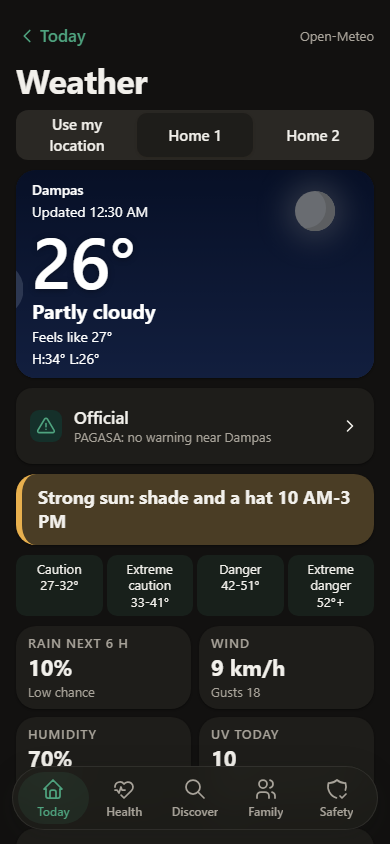
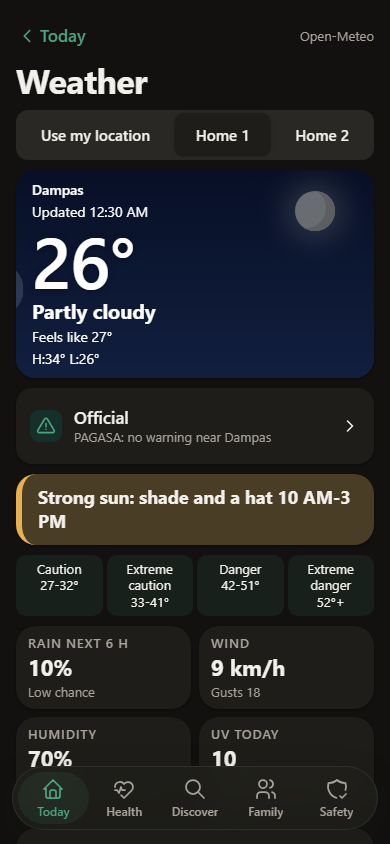
fix(weather): Place options stay on one line; no map prompt flash while pending; Official row says last known place (review 1.W8)

Changed region(s): [[0.0923, 0.1232, 0.4, 0.1848], [0.4308, 0.154, 0.6462, 0.1848], [0.7385, 0.154, 0.8923, 0.1848]]

diff --git a/src/features/weather/WeatherScreen.test.tsx b/src/features/weather/WeatherScreen.test.tsx
@@ -1,5 +1,5 @@
 import 'fake-indexeddb/auto'
-import { cleanup, fireEvent, render, screen, within } from '@testing-library/react'
+import { cleanup, fireEvent, render, screen, waitFor, within } from '@testing-library/react'
 import { afterEach, beforeEach, describe, expect, it, vi } from 'vitest'
 import { db } from '../../db'
 import { ALERTS_KEY, type Alert } from '../safety/alerts'
@@ -34,6 +34,7 @@ describe('WeatherScreen', () => {
     expect(heroes).toHaveLength(1)
     expect(heroes[0]).toBe(screen.getByRole('region', { name: 'Now' }))
     expect(heroes[0]!.getAttribute('data-contrast-bg')).toBe('#0B1636')
+    await screen.findByRole('region', { name: 'Live weather map' }) // appears once the position is known
     const regions = screen.getAllByRole('region').map((r) => r.getAttribute('aria-label') ?? document.getElementById(r.getAttribute('aria-labelledby')!)?.textContent)
     expect(regions.slice(0, 8)).toEqual(['Now', 'What to do', 'Details', 'Rain and storm map', 'Next 48 hours', '10 days', 'Season and sun', 'Live weather map'])
     expect(document.querySelector('.wx-temp')?.textContent).toBe('33°')
@@ -83,9 +84,10 @@ describe('WeatherScreen', () => {
     render(<WeatherScreen />)
     const k = (await screen.findByTestId('place-last')).closest('.wx-k')!
     expect(k.textContent).toBe('My location · last known')
-    expect(within(screen.getByRole('region', { name: 'Now' })).getByText(/^Updated \d{1,2}:\d\d [AP]M$/)).toBeTruthy()
-    expect(within(screen.getByRole('region', { name: 'Now' })).getByText(/^Feels like \d+°$/)).toBeTruthy()
-    expect(within(screen.getByRole('region', { name: 'Now' })).getByText(/^H:\d+°\s+L:\d+°$/)).toBeTruthy()
+    await waitFor(() => { // the forecast for the last fix replaces the first one, so read the settled hero
+      const now = within(screen.getByRole('region', { name: 'Now' }))
+      now.getByText(/^Updated \d{1,2}:\d\d [AP]M$/); now.getByText(/^Feels like \d+°$/); now.getByText(/^H:\d+°\s+L:\d+°$/)
+    }, { timeout: 5000 })
     cleanup()
     await db.kv.clear()
     render(<WeatherScreen />)
@@ -114,7 +116,7 @@ describe('WeatherScreen', () => {
   it('place toggle: Home 1 and Home 2 fetch their own forecast; without GPS the first button offers to use the location (N-2)', async () => {
     render(<WeatherScreen />)
     await screen.findByText('Partly cloudy')
-    fireEvent.click(screen.getAllByRole('button', { name: 'Use my location' })[0]!)
+    fireEvent.click(screen.getByRole('button', { name: 'Use my location' }))
     expect(await screen.findByText(/Location is off for Bantay/)).toBeTruthy() // no GPS in the test: the tap says why instead of doing nothing (m-1)
     expect(screen.getByRole('button', { name: 'Home 1' }).getAttribute('aria-pressed')).toBe('true')
     fireEvent.click(screen.getByRole('button', { name: 'Home 2' }))
@@ -162,7 +164,7 @@ describe('WeatherScreen', () => {
     render(<WeatherScreen />)
     await screen.findByText('Partly cloudy')
     expect(screen.queryByRole('button', { name: 'Open live map' })).toBeNull()
-    const map = within(screen.getByRole('region', { name: 'Live weather map' }))
+    const map = within(await screen.findByRole('region', { name: 'Live weather map' })) // hidden while the position is pending, so it never flashes
     expect(map.getByRole('button', { name: 'Find me' })).toBeTruthy()
     expect(map.getByText('Your position is not known yet, so the map has nothing to centre on.')).toBeTruthy()
     expect(document.querySelector('iframe')).toBeNull()

diff --git a/src/features/weather/WeatherScreen.tsx b/src/features/weather/WeatherScreen.tsx
@@ -94,7 +94,7 @@ export default function WeatherScreen() {
     <div className="wx">
       <LargeTitle back={{ href: '#today', label: 'Today' }} title="Weather" actions={<span className="wx-src-pill">Open-Meteo</span>} />
       <Segmented<Sel> label="Place" value={sel} onChange={(id) => (id === 'me' ? void askLoc() : setPick(id))} options={[
-        { id: 'me', label: fix && l.source === 'gps' ? 'My location' : fix ? 'My location (last known)' : finding ? 'Finding you…' : 'Use my location' },
+        { id: 'me', label: fix ? 'My location' : finding ? 'Finding you…' : 'Use my location' },
         { id: 'h1', label: 'Home 1' },
         { id: 'h2', label: 'Home 2' }
       ]} />
@@ -102,7 +102,7 @@ export default function WeatherScreen() {
       {fc && point ? <Body fc={fc} name={name} where={sel === 'me' ? (l.source === 'last' ? 'last' : 'gps') : null} point={point} alerts={alerts} offline={offline || !online} /> : (
         <p className="wx-note" role="status">{loading ? 'Loading the forecast…' : 'Could not load the forecast. Check your connection and open this screen again.'}</p>
       )}
-      {fix ? <LiveMapToggle loc={fix} /> : (
+      {fix ? <LiveMapToggle loc={fix} /> : l.source === 'pending' ? null : (
         <section aria-label="Live weather map" className="card wx-map wx-map-empty">
           <p>Your position is not known yet, so the map has nothing to centre on.</p>
           <button type="button" className="btn" disabled={finding} onClick={askLoc}>{finding ? 'Finding you…' : 'Find me'}</button>
@@ -158,7 +158,7 @@ function Body({ fc, name, where, point, alerts, offline }: { fc: Forecast; name:
       </section>
 
       <GroupedList icons>
-        <Row icon="warn" tint={warn ? 'red' : 'green'} title="Official" sub={warn ? warn.title : `PAGASA: no warning near ${name === 'My location' ? 'you' : name}`} href="#safety/warnings" />
+        <Row icon="warn" tint={warn ? 'red' : 'green'} title="Official" sub={warn ? warn.title : `PAGASA: no warning near ${where === 'last' ? 'your last known place' : where === 'gps' ? 'you' : name}`} href="#safety/warnings" />
       </GroupedList>
 
       <section aria-label="What to do" className={`wx-action${main ? ' on' : ''}`} data-id={main?.id ?? 'none'}>

diff --git a/e2e/v13-weather.spec.ts b/e2e/v13-weather.spec.ts
@@ -29,17 +29,35 @@ test('hero first, one [data-hero], Now above Official above What to do', async (
   expect(official).toBeLessThan(todo)
 })
 
+// Each Place option on one line: one line box is under 1.5x the font size.
+const assertPlaceOneLine = async (page: Page) => {
+  for (const b of await page.locator('.wx .segd > button').all()) {
+    const [h, fs] = await b.evaluate((el) => { const r = document.createRange(); r.selectNodeContents(el); return [r.getBoundingClientRect().height, parseFloat(getComputedStyle(el).fontSize)] })
+    expect(h, `${await b.textContent()} wraps`).toBeLessThan(fs * 1.5)
+  }
+}
+
 for (const [w, h] of [[390, 844], [360, 740]] as const) {
-  test(`44 px targets and no sideways scroll at ${w}`, async ({ page }) => {
-    await page.setViewportSize({ width: w, height: h })
-    await assertTargets(page)
-    await assertNoSideways(page)
-    await assertNoWrappedButtons(page)
-  })
+  for (const fix of [false, true]) {
+    test(`44 px targets, no sideways scroll, Place on one line at ${w}${fix ? ' with a last fix' : ''}`, async ({ page }) => {
+      if (fix) { await seedLast(page); await page.reload(); await expect(page.getByTestId('place-last')).toBeVisible() }
+      await page.setViewportSize({ width: w, height: h })
+      await assertTargets(page)
+      await assertNoSideways(page)
+      await assertNoWrappedButtons(page)
+      await assertPlaceOneLine(page)
+    })
+  }
 }
 
 test('195 px (200% text zoom)', async ({ page }) => {
   await assertNarrow(page)
+})
+
+test('195 px with a last fix', async ({ page }) => {
+  await seedLast(page)
+  await assertNarrow(page)
+  await expect(page.getByTestId('place-last')).toBeVisible()
 })
 
 test('contrast, light and dark', async ({ page }) => {

diff --git a/src/features/weather/weather.css b/src/features/weather/weather.css
@@ -63,3 +63,6 @@
 .wx-made h3 { margin: 0; font-size: 17px; font-weight: 600; }
 .wx-made p { margin: 0; }
 .wx-action > .sh-icbox { align-self: flex-start; margin-bottom: 4px; }
+/* Place picker: columns fit their label so "Use my location" stays on one line at 360 (review W must-fix) */
+.wx .segd { grid-auto-columns: auto; }
+.wx .segd > * { white-space: nowrap; padding: 0 10px; }
